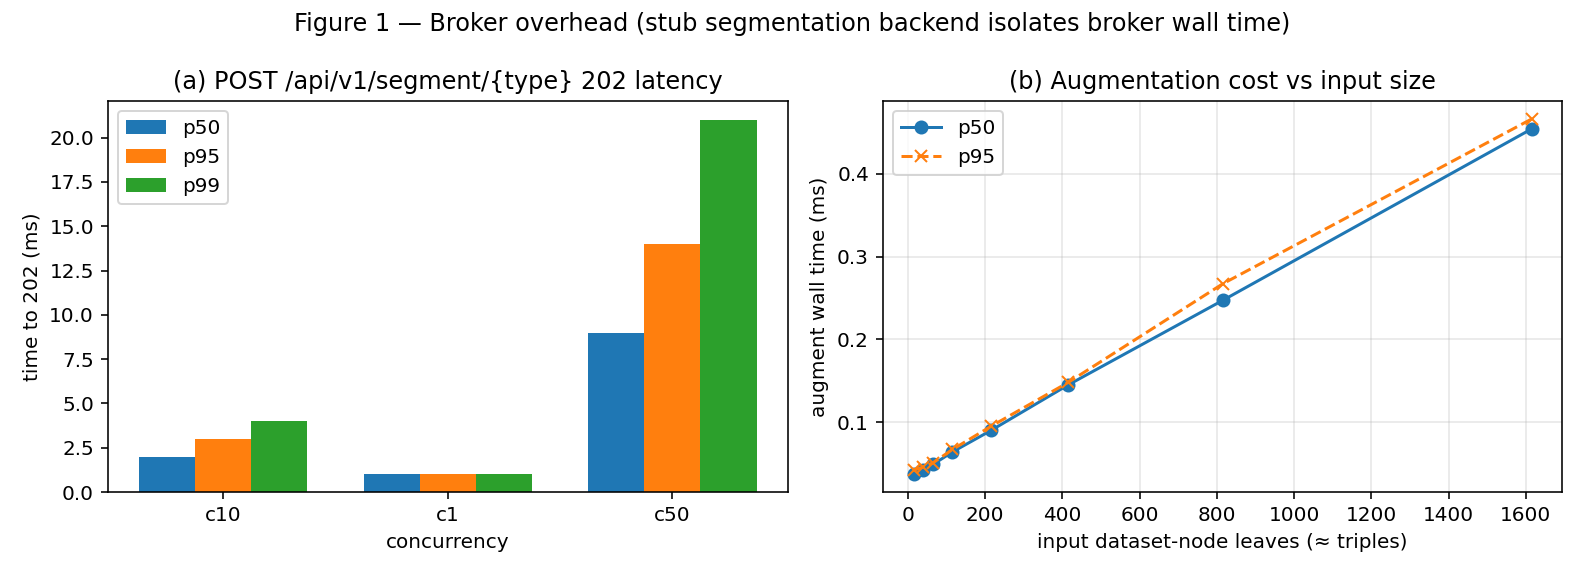
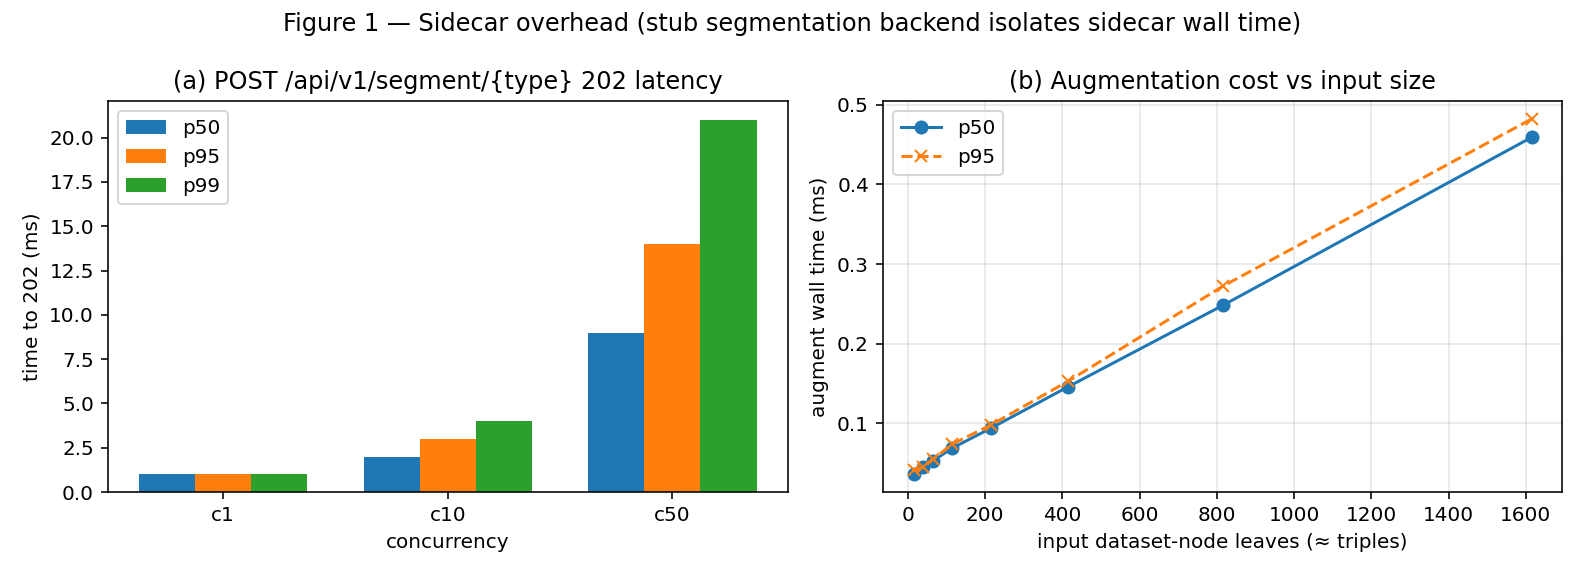
Before submission

diff --git a/eval/run_e4_perf.py b/eval/run_e4_perf.py
@@ -48,6 +48,7 @@ import argparse
 import copy
 import csv
 import json
+import re
 import statistics
 import sys
 import time
@@ -238,6 +239,14 @@ def _read_locust_stats() -> list[LatencyRow]:
                     p99_ms=p99,
                     failures=n_fail,
                 ))
+    # Natural-sort by concurrency integer (c1, c10, c50 — not lexicographic
+    # c10, c1, c50 from the glob). Non-numeric tags ("all") sink to the end.
+    def _key(r: LatencyRow) -> tuple[int, int, str]:
+        m = re.match(r"c(\d+)$", r.concurrency)
+        if m:
+            return (0, int(m.group(1)), r.concurrency)
+        return (1, 0, r.concurrency)
+    out.sort(key=_key)
     return out
 
 
@@ -271,7 +280,7 @@ def _write_latency(rows: list[LatencyRow]) -> None:
 # --- Figure 1 ------------------------------------------------------------
 
 
-def _draw_panel_a(ax, latency_rows: list[LatencyRow]) -> None:
+def _draw_panel_a(ax, latency_rows: list[LatencyRow], *, show_title: bool = True) -> None:
     if latency_rows:
         labels = [r.concurrency for r in latency_rows]
         p50 = [r.p50_ms for r in latency_rows]
@@ -286,7 +295,8 @@ def _draw_panel_a(ax, latency_rows: list[LatencyRow]) -> None:
         ax.set_xticklabels(labels)
         ax.set_ylabel("time to 202 (ms)")
         ax.set_xlabel("concurrency")
-        ax.set_title("(a) POST /api/v1/segment/{type} 202 latency")
+        if show_title:
+            ax.set_title("(a) POST /api/v1/segment/{type} 202 latency")
         ax.legend()
     else:
         ax.text(
@@ -294,12 +304,13 @@ def _draw_panel_a(ax, latency_rows: list[LatencyRow]) -> None:
             "no locust stats — run\n`locust -f eval/locustfile.py …`",
             ha="center", va="center", transform=ax.transAxes,
         )
-        ax.set_title("(a) 202 latency — data missing")
+        if show_title:
+            ax.set_title("(a) 202 latency — data missing")
         ax.set_xticks([])
         ax.set_yticks([])
 
 
-def _draw_panel_b(ax, cost_rows: list[CostRow]) -> None:
+def _draw_panel_b(ax, cost_rows: list[CostRow], *, show_title: bool = True) -> None:
     xs = [r.input_triples_approx for r in cost_rows]
     p50s = [r.p50_ms for r in cost_rows]
     p95s = [r.p95_ms for r in cost_rows]
@@ -307,7 +318,8 @@ def _draw_panel_b(ax, cost_rows: list[CostRow]) -> None:
     ax.plot(xs, p95s, marker="x", linestyle="--", label="p95")
     ax.set_xlabel("input dataset-node leaves (≈ triples)")
     ax.set_ylabel("augment wall time (ms)")
-    ax.set_title("(b) Augmentation cost vs input size")
+    if show_title:
+        ax.set_title("(b) Augmentation cost vs input size")
     ax.legend()
     ax.grid(True, alpha=0.3)
 
@@ -335,15 +347,16 @@ def _try_draw_figure(cost_rows: list[CostRow], latency_rows: list[LatencyRow]) -
     plt.close(fig)
 
     # Single-panel PDFs — what the LaTeX paper actually \includegraphics.
-    # Vector output, sized to fit a two-column subfigure pair.
+    # Vector output, sized to fit a two-column subfigure pair. Titles are
+    # suppressed because the LaTeX \caption / \subcaption supplies them.
     fig_a, ax_a = plt.subplots(figsize=(5.5, 4))
-    _draw_panel_a(ax_a, latency_rows)
+    _draw_panel_a(ax_a, latency_rows, show_title=False)
     fig_a.tight_layout()
     fig_a.savefig(FIGURE_A_PDF, format="pdf", bbox_inches="tight")
     plt.close(fig_a)
 
     fig_b, ax_b = plt.subplots(figsize=(5.5, 4))
-    _draw_panel_b(ax_b, cost_rows)
+    _draw_panel_b(ax_b, cost_rows, show_title=False)
     fig_b.tight_layout()
     fig_b.savefig(FIGURE_B_PDF, format="pdf", bbox_inches="tight")
     plt.close(fig_b)